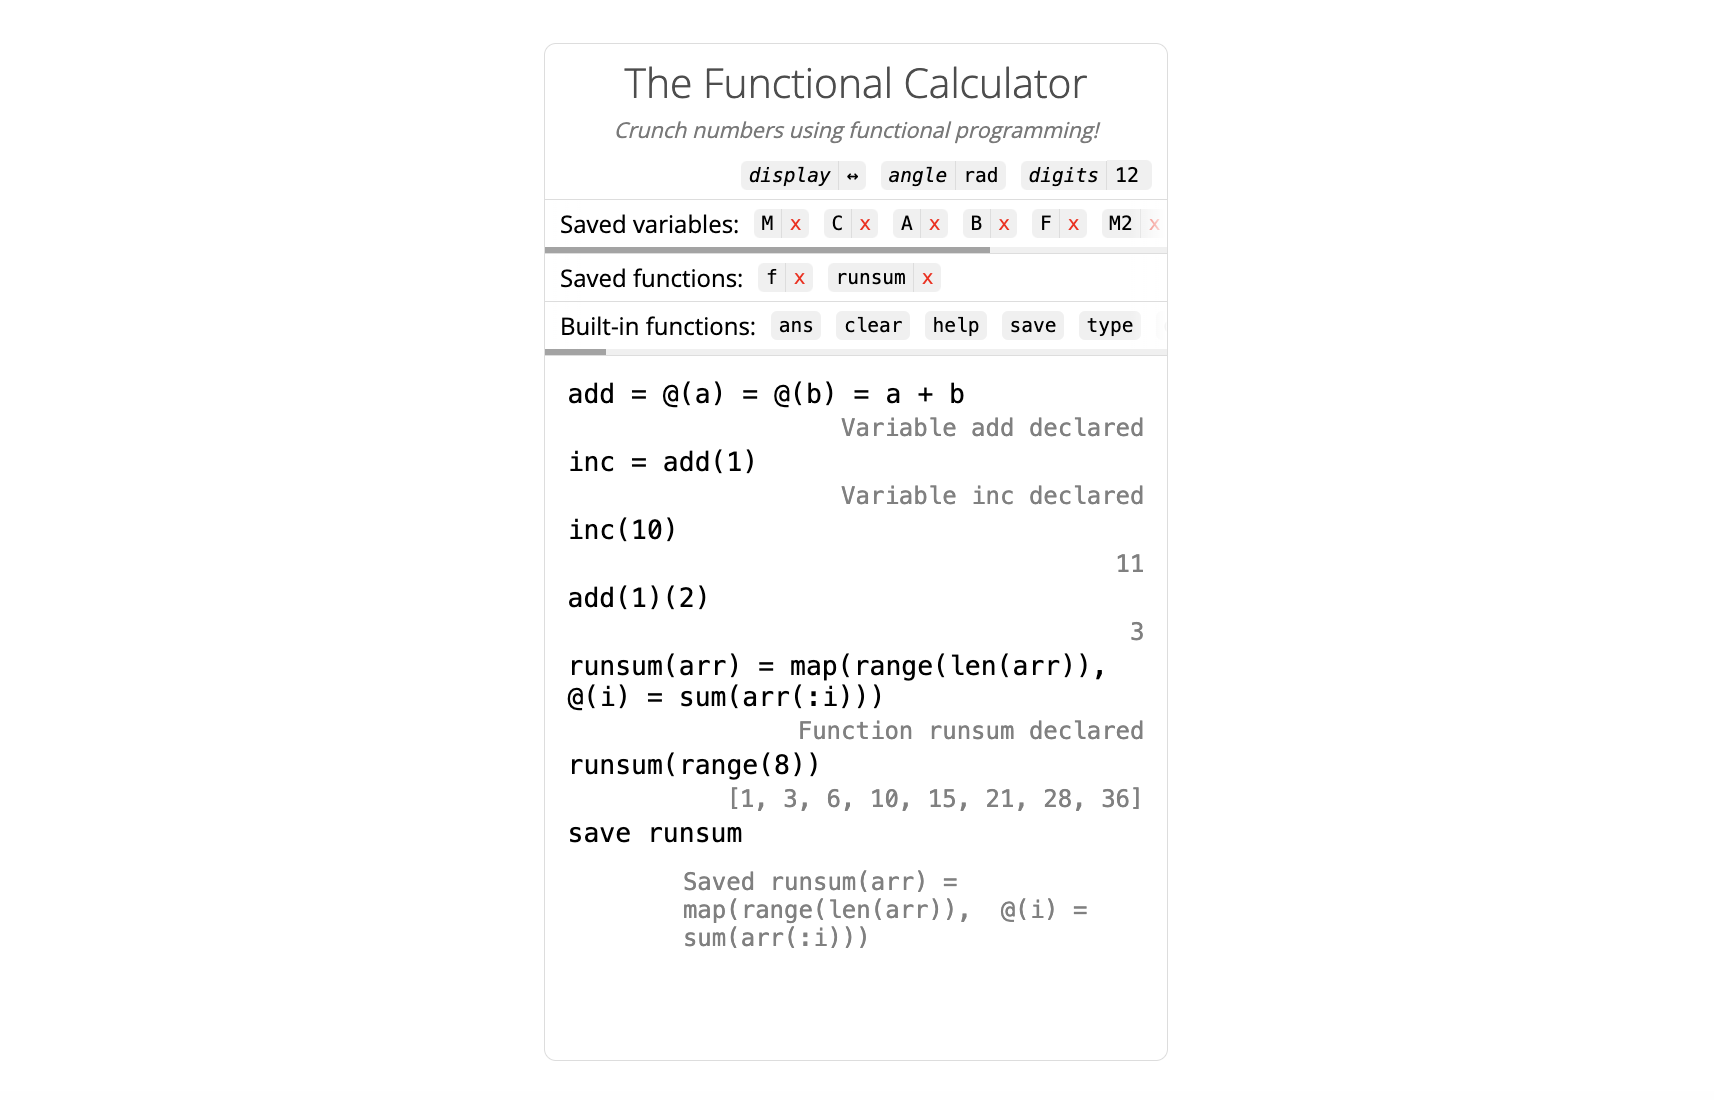
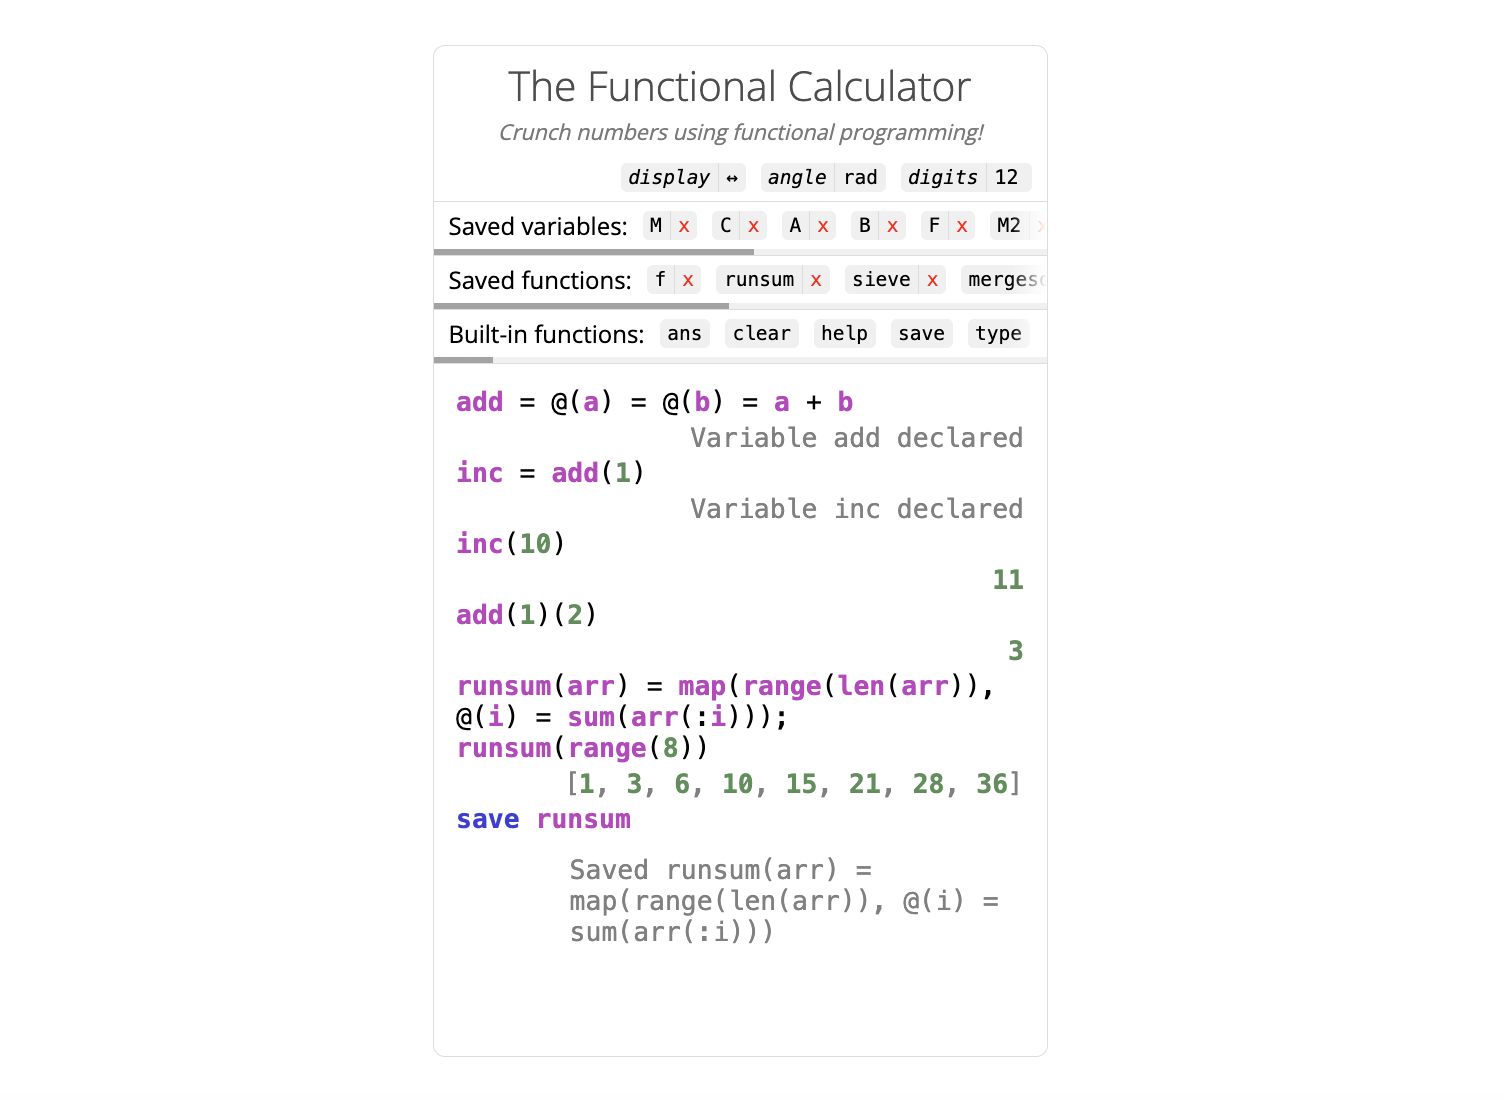
Update demos

Changed region(s): [[0.2812, 0.0618, 0.6875, 0.4018], [0.2812, 0.4018, 0.6875, 0.8655], [0.4688, 0.4327, 0.6875, 0.5873]]

diff --git a/scripts/main.js b/scripts/main.js
@@ -86,11 +86,13 @@ document.addEventListener("DOMContentLoaded", () => {
             event.preventDefault()
             const u = userInput.innerText 
             let t = button.dataset.text || button.innerText
-            let length = t.length
+            let length = t.length + 1
             if (t.includes("|") && !button.dataset.override) {
                 const pipe_index = t.indexOf("|")
                 t = t.slice(0, pipe_index) + t.slice(pipe_index + 1)
                 length = pipe_index
+            } else {
+                t += " "
             }
             if (u.length === 0) {
                 userInput.textContent = `help ${t.replaceAll("()", "")}`
@@ -326,10 +328,10 @@ document.addEventListener("DOMContentLoaded", () => {
                                     if (name.indexOf(")") !== -1) {
                                         name = name.slice(0, name.indexOf(")"))
                                     }
-                                    fs = fs.slice(0, index) + calculator.functions[name].string.replaceAll("@", "#") + fs.slice(index + name.length)
+                                    fs = fs.slice(0, index) + calculator.functions[name].string.replaceAll("@", "#").trim() + fs.slice(index + name.length)
                                 }
                                 fs = fs.replaceAll("#", "@")
-                                output = `Saved ${fs.replaceAll(",", ", ")}`
+                                output = `Saved ${fs}`
                                 let saved_functions = JSON.parse(localStorage.getItem("saved_functions") || "{}")
                                 saved_functions[op] = fs
                                 localStorage.setItem("saved_functions", JSON.stringify(saved_functions))
@@ -393,8 +395,13 @@ document.addEventListener("DOMContentLoaded", () => {
                     const result = document.createElement("pre")
                     result.className = "result"
                     result.textContent = output
-                    if (typeof output === "number" || ((typeof output === "string" || output instanceof String) && (output.startsWith("[") || "0123456789".includes(output[0]))) || output instanceof Operation || output instanceof Fraction || (user_input.startsWith("trace") && output !== "N/A") || user_input.startsWith("def"))
+                    console.log(output)
+                    if (typeof output === "number" || ((typeof output === "string" || output instanceof String) && (output.startsWith("[") || "0123456789".includes(output[0]))) || output instanceof Operation || output instanceof Fraction || (user_input.startsWith("trace") && output !== "N/A") || user_input.startsWith("def") || user_input.startsWith("type")) {
                         highlightSyntax(result)
+                    }
+                    if ((typeof output === "string" || output instanceof String) && output.includes("`")) {
+                        highlightSyntax(result, true)
+                    }
                     if (output.length > 30) {
                         result.style.textAlign = "left"
                         result.style.margin = "10px 0 10px 20%"

diff --git a/scripts/util.js b/scripts/util.js
@@ -801,14 +801,16 @@ function tree_to_string(node) {
             return ""
     }
 }
+
 // Syntax highlight code generated with help from LLMs
-function highlightSyntax(element) {
+function highlightSyntax(element, backticks_mode = false) {
     const cursor_position = getCursorPosition(element)
     let text = element.innerHTML
     text = text.replace(/<span class="highlight-(?:number|word|keyword)">([^<]*)<\/span>/g, "$1")
-    const keywords = ["if","then","else","def","save","help","clear","trace","to"]
+    const keywords = ["if", "then", "else", "def", "save", "help", "clear", "trace", "to"]
     let lines = text.split("\n")
-    let processed_lines = lines.map(line => {
+    let processed_lines
+    const process_line = (line) => {
         if (line.trim() === "") return line
         line = line.replace(
             /(^|\s|>|\(|\[|,|[-+*/%^=()])(-?(?:\d+\.?\d*|\.\d+))([a-zA-Z_][a-zA-Z0-9_]*)(?=\W|\]|,|\)|$|[-+*/%^=()])/g,
@@ -846,14 +848,21 @@ function highlightSyntax(element) {
             }
         )
         return line
-    })
+    }
+    if (backticks_mode) {
+        text = text.replace(/`([^`]+)`/g, (match, content) => {
+            return process_line(content) 
+        })
+        processed_lines = [text]
+    } else {
+        processed_lines = lines.map(process_line)
+    }
     text = processed_lines.join("\n")
     if (element.innerHTML !== text) {
         element.innerHTML = text
         setCursorPosition(element, cursor_position)
     }
 }
-
 
 function getCursorPosition(element, start_node = null, start_offset = null) {
     const selection = window.getSelection();

diff --git a/scripts/operations.js b/scripts/operations.js
@@ -639,11 +639,11 @@ const OPERATIONS = {
                 }
                 let b_part = b == 0 ? "" : ` ${b < 0 ? "-" : "+"} ${Math.abs(b)}${x}`
                 let c_part = c == 0 ? "" : ` ${c < 0 ? "-" : "+"} ${Math.abs(c)}`
-                let response = `Roots of ${a == 1 ? "" : a}${x}^2${b_part}${c_part} = 0\n`
+                let response = `\`${a == 1 ? "" : a}${x}^2${b_part}${c_part} = 0\`\n\Roots: `
                 if (result.length === 2) {
-                    response += `${x} = ${result[0]} or ${x} = ${result[1]}`
+                    response += `\`${x} = ${result[0]}\` or \`${x} = ${result[1]}\``
                 } else if (result.length === 1) {
-                    response += `${x} = ${result[0]}`
+                    response += `\`${x} = ${result[0]}\``
                 } else {
                     response += "No real solutions"
                 }
@@ -1227,7 +1227,7 @@ const OPERATIONS = {
                 f = "f"
             }
             calc.calculate(`${f}'(${x}) = ${output}`)
-            return new String(`${f}'(${x}) = ${output}\nDerivative ${f}' declared`)
+            return new String(`\`${f}'(${x}) = ${output}\`\nDerivative \`${f}'\` declared`)
         },
         schema: [1],
         vars: ["f"],

diff --git a/index.html b/index.html
@@ -58,7 +58,7 @@
                     <div data-text = "save" class = "command">save</div>
                     <div data-text = "type(|)" class = "command">type</div>
                     <div data-text = "def(|)" class = "command">def</div>
-                    <div data-text = "trace " class = "command">trace</div>
+                    <div data-text = "trace" class = "command">trace</div>
                     <div class = "divider"></div>
                     <div data-text = "@(|)" class = "command">@</div>
                     <div data-text = "map(|)" class = "command">map</div>
